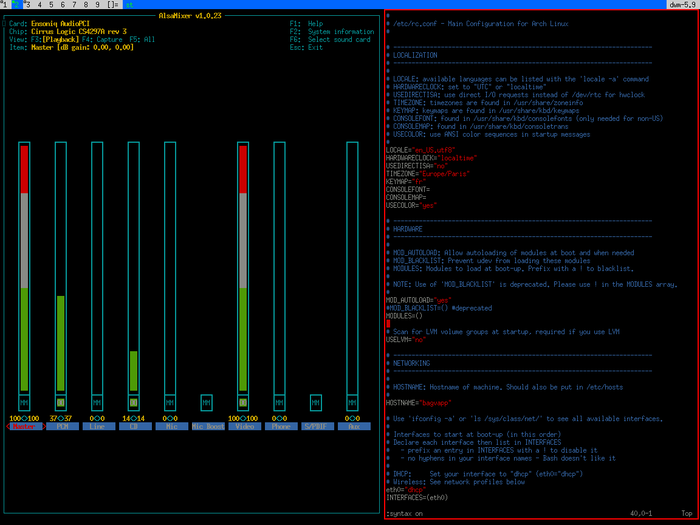
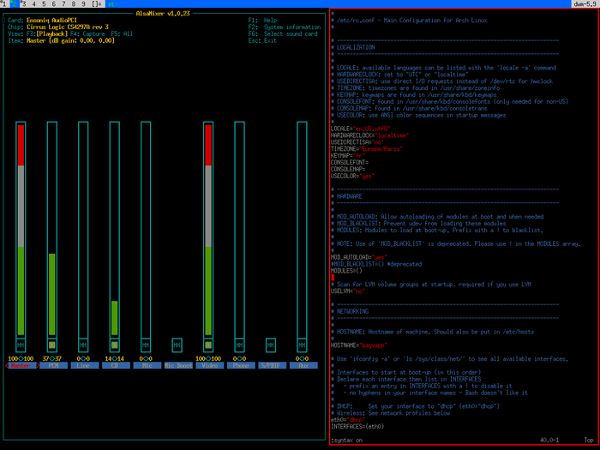
Unify picture sizes on st.suckless.org
Bringing it all on 600px width, same as before.

diff --git a/st.suckless.org/patches/solarized_color_scheme.md b/st.suckless.org/patches/solarized_color_scheme.md
@@ -29,8 +29,8 @@ You find more information in my [thread][2] at the arch linux forums.
 Example
 -------
 
-[![Screenshot](st-solarized-light.png)](st-solarized-light.png)
-[![Screenshot](st-solarized-dark.png)](st-solarized-dark.png)
+->[![Screenshot](st-solarized-light-s.png)](st-solarized-light.png)<-
+->[![Screenshot](st-solarized-dark-s.png)](st-solarized-dark.png)<-
 
 The font is [Source Code Pro][6].
 

diff --git a/st.suckless.org/index.md b/st.suckless.org/index.md
@@ -1,6 +1,6 @@
 st is a simple terminal implementation for X.
 
-<a href="http://st.suckless.org/screenshots/20h-2012.png" title="dwm &amp; st"><img src="http://st.suckless.org/screenshots/20h-2012.png" width="500" height="313" alt="dwm &amp; st" /></a>
+->[![Screenshot of dwm & st](screenshots/20h-2012s.png)](screenshots/20h-2012.png)<-
 
 What is wrong with xterm?
 -------------------------

diff --git a/st.suckless.org/patches/argbbg.md b/st.suckless.org/patches/argbbg.md
@@ -1,7 +1,7 @@
 argbbg
 ======
 
-[![Screenshot](st-argbbg.png)](st-argbbg.png)
+->[![Screenshot](st-argbbg-s.png)](st-argbbg.png)<-
 
 ## Description ##
 This patch allows users to change the opacity of the background.
